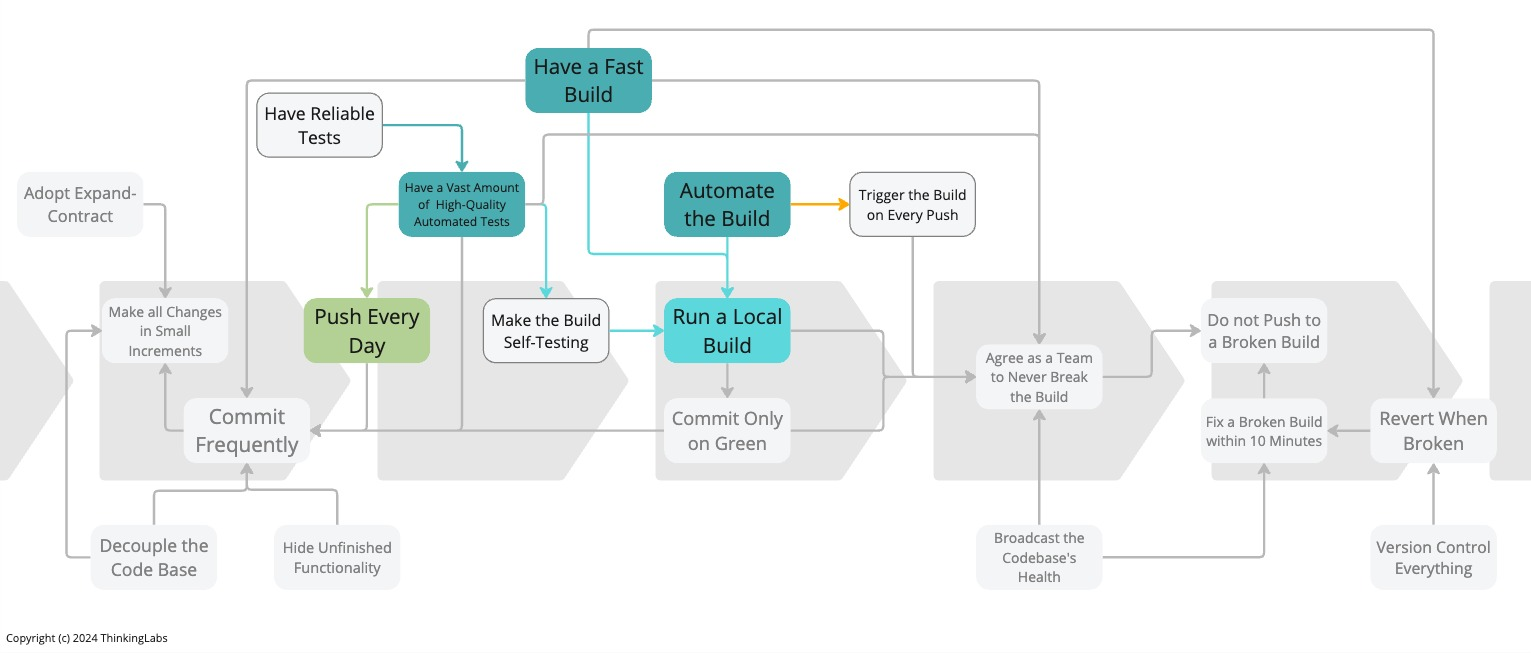
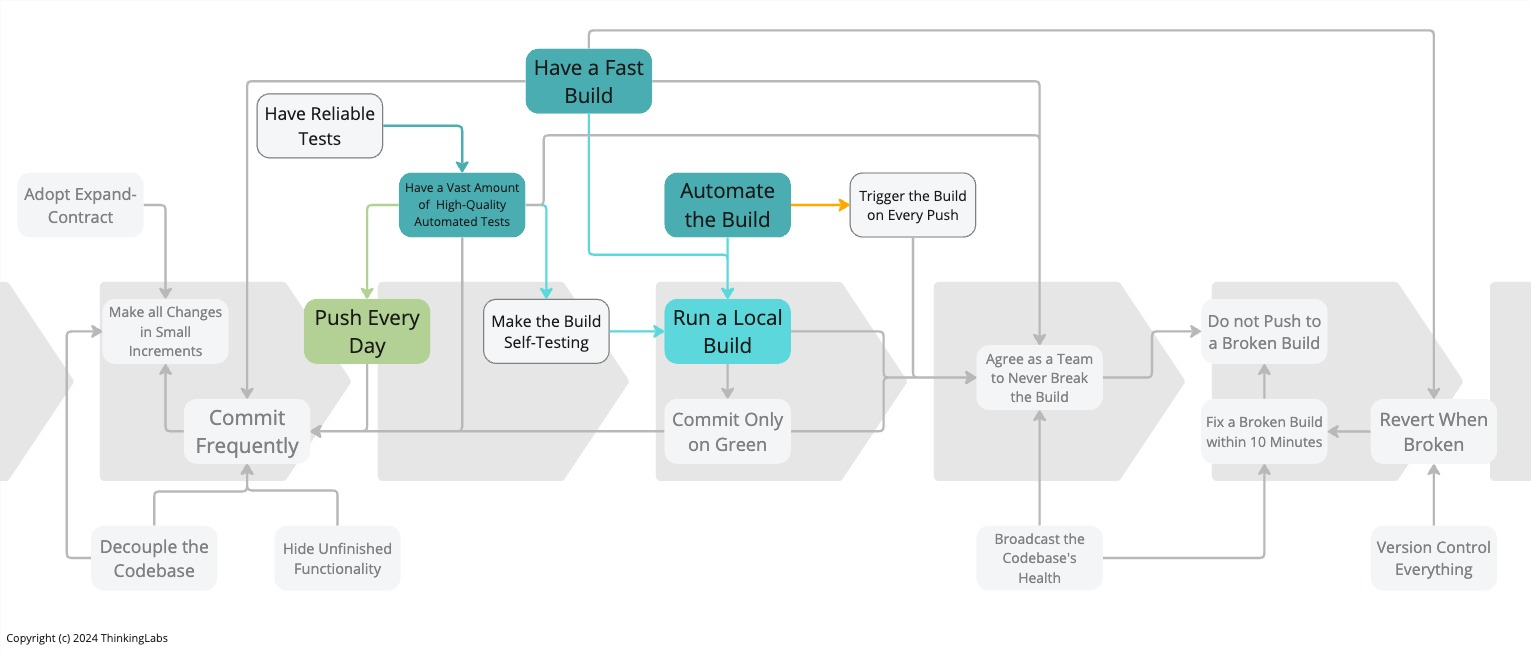
Replae Decouple the Code Base with Decouple the Codebase

diff --git a/_posts/2024-11-03-raising-the-continuous-integration-bar.md b/_posts/2024-11-03-raising-the-continuous-integration-bar.md
@@ -17,7 +17,7 @@ So we [implemented Continuous Integration]({% post_url 2024-11-01-continuous-int
 
 [*Push Every Day*]({% post_url 2024-09-16-the-practices-that-make-continuous-integration-push-every-day %}) is one of [the six foundational practices to get started with Continuous Integration]({% post_url 2024-11-01-continuous-integration-where-to-start %}). No matter how, if we want to leverage the benefits of Continuous Integration to the fullest, integrating once per day will not make it. That is pertinent but inadequate. To raise the bar to the next level, we have to [Commit Frequently]({% post_url 2022-09-25-the-practices-that-make-continuous-integration-coding %}#practice-6-commit-frequently). After all, the central premise of Continuous Integration is *integrating early and often on* [*Mainline*](#mainline). It enables speed of delivery. As a result, it accelerates feedback, amplifies quality, and allows us to recover quicker from production instabilities.
 
-I regularly get pointed out that this focus on speed of delivery puts pressure on teams. I can see that. But we are missing the point. We want teams to be at ease and comfortable, without stress and fear. Because of that, they will deliver at speed. However, to enable this, it requires teams to adopt *Decouple the Code Base*, *Hide Unfinished Functionality* and *Expand-Contract*.
+I regularly get pointed out that this focus on speed of delivery puts pressure on teams. I can see that. But we are missing the point. We want teams to be at ease and comfortable, without stress and fear. Because of that, they will deliver at speed. However, to enable this, it requires teams to adopt *Decouple the Codebase*, *Hide Unfinished Functionality* and *Expand-Contract*.
 
 When we *Commit Frequently* we reduce the size of our changes. Merge conflicts are unlikely and broken builds are infrequent.
 
@@ -31,9 +31,9 @@ Once we commit and push every so often into the remote *Mainline*, multiple time
 
 Naturally, *Commit Frequently* creates a gentle design pressure to work in [much more, many smaller steps]({% post_url 2022-09-25-the-practices-that-make-continuous-integration-coding%}#practice-5-make-all-changes-in-small-increments), to [keep the code base even more decoupled]({% post_url 2022-09-25-the-practices-that-make-continuous-integration-coding %}#practice-8-decouple-the-codebase), to further [speed up the build]({% post_url 2022-09-28-the-practices-that-make-continuous-integration-building %}#practice-14-have-a-fast-build), and lastly to increasingly [hide unfinished functionality]({% post_url 2022-09-25-the-practices-that-make-continuous-integration-coding %}#practice-10-hide-unfinished-functionality). This creates a virtuous circle resulting in committing all the more frequently.
 
-To [*Make all Changes in Small Increments*]({% post_url 2022-09-25-the-practices-that-make-continuous-integration-coding%}#practice-5-make-all-changes-in-small-increments) it is vital to [*Decouple the Code Base*]({% post_url 2022-09-25-the-practices-that-make-continuous-integration-coding %}#practice-8-decouple-the-codebase). When a codebase is too coupled, it becomes tough to adopt incremental software engineering skills. Any change will rip apart the application and prevent the application from working all the time. We find ourselves not releasing anymore at any time, incurring delays in delivery and an increased opportunity cost.
+To [*Make all Changes in Small Increments*]({% post_url 2022-09-25-the-practices-that-make-continuous-integration-coding%}#practice-5-make-all-changes-in-small-increments) it is vital to [*Decouple the Codebase*]({% post_url 2022-09-25-the-practices-that-make-continuous-integration-coding %}#practice-8-decouple-the-codebase). When a codebase is too coupled, it becomes tough to adopt incremental software engineering skills. Any change will rip apart the application and prevent the application from working all the time. We find ourselves not releasing anymore at any time, incurring delays in delivery and an increased opportunity cost.
 
-Adopting [Ports and Adapters](https://alistair.cockburn.us/hexagonal-architecture/) together with [Simple Design](https://wiki.c2.com/?SimpleDesign) and intentional code duplication (through *Expand-Contract*) helps to decouple the code base. Interestingly, these patterns not only amplify quality and improve maintainability, they also optimise the required engineering time for new functionality. It becomes cheaper to introduce changes.
+Adopting [Ports and Adapters](https://alistair.cockburn.us/hexagonal-architecture/) together with [Simple Design](https://wiki.c2.com/?SimpleDesign) and intentional code duplication (through *Expand-Contract*) helps to decouple the codebase. Interestingly, these patterns not only amplify quality and improve maintainability, they also optimise the required engineering time for new functionality. It becomes cheaper to introduce changes.
 
 Inherently, when a code base is decoupled, we can *Commit More Frequently*.
 
